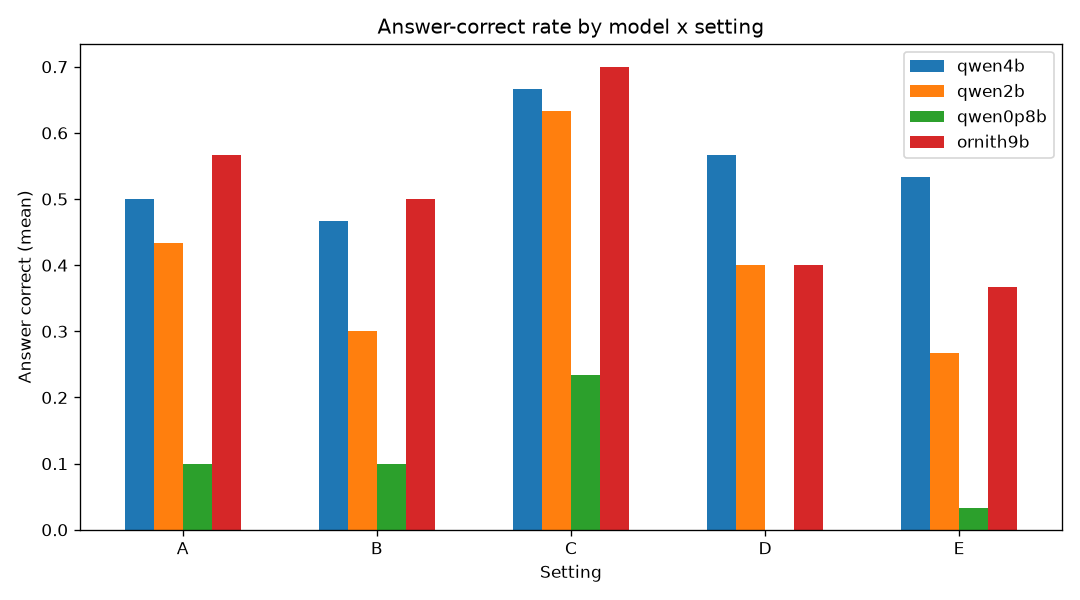
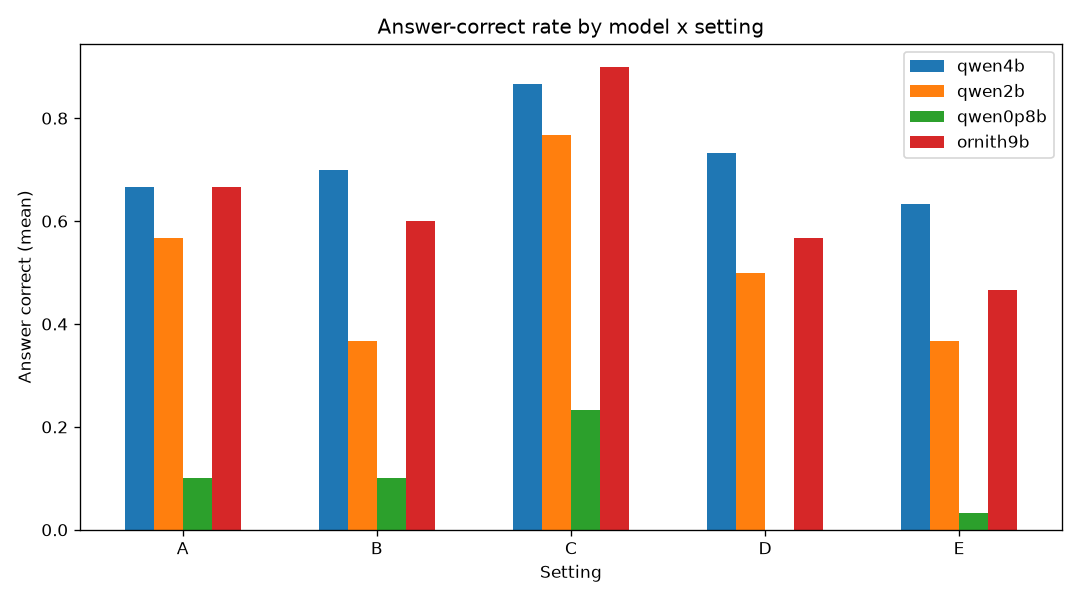
fix(reports): recompute stored answer_correct with the fixed cover_match, refresh the experiment matrix report
answer_correct is scored once at export time and stored in each
teacher_guidance_episodes.jsonl; both the viewer and the report read that stored
value directly rather than recomputing it live, so the cover_match false-positive
fix didn't retroactively change anything already on disk.

Adds scripts/recompute_answer_correct.py, which re-scores every stored episode's
final_answer against its gold_answer with the current cover_match and rewrites the
file in place only where the value actually changes (in-place across the 650
stored episode files: 62 records flipped from False to True, 0 regressions).
Re-ran scripts/build_experiment_matrix_report.py to refresh REPORT.md and
plots/answer_correct.png from the corrected data.

diff --git a/scripts/recompute_answer_correct.py b/scripts/recompute_answer_correct.py
@@ -1,0 +1,109 @@
+"""
+Recompute `final_metrics.answer_correct` in every stored Teacher Guidance episode
+file, using the current `cover_match` (agentsim/teacher_guidance/metrics.py).
+
+Why this is needed: `answer_correct` is computed once at export time and stored in
+`teacher_guidance_episodes.jsonl`; the viewer and report both read that stored value
+directly rather than recomputing it live (see
+`agentsim/teacher_guidance/viewer/data_access.py:_answer_correct`, which only
+recomputes when the field is *missing*). A `cover_match` bug fix therefore doesn't
+retroactively change anything already on disk -- this script re-scores every stored
+episode in place so the explorer and any report built from the data reflect the fix.
+
+Usage:
+    python scripts/recompute_answer_correct.py [--root data/simulation_output] [--dry-run]
+"""
+
+from __future__ import annotations
+
+import argparse
+import json
+import os
+import sys
+from pathlib import Path
+from typing import Any, Dict, List, Tuple
+
+sys.path.insert(0, str(Path(__file__).resolve().parent.parent))
+
+from agentsim.teacher_guidance.metrics import cover_match  # noqa: E402
+
+EPISODE_FILENAME = "teacher_guidance_episodes.jsonl"
+
+
+def recompute_episode(episode: Dict[str, Any]) -> Tuple[Dict[str, Any], bool, bool]:
+    """Return (episode, changed, regressed). `regressed` is True iff a previously
+    True answer_correct flipped to False -- cover_match's fix is purely additive
+    (it only accepts cases the old strict check rejected), so this should never
+    happen; if it does, treat it as a bug to investigate rather than apply silently.
+    """
+    fm = episode.get("final_metrics")
+    if not isinstance(fm, dict) or "answer_correct" not in fm:
+        return episode, False, False
+
+    old_value = bool(fm["answer_correct"])
+    new_value = cover_match(episode.get("final_answer", ""), episode.get("gold_answer", ""))
+    if new_value == old_value:
+        return episode, False, False
+
+    regressed = old_value and not new_value
+    fm["answer_correct"] = new_value
+    return episode, True, regressed
+
+
+def process_file(path: Path, dry_run: bool = False) -> Tuple[int, int, int]:
+    """Return (num_records, num_changed, num_regressed) for one episode file."""
+    records: List[Dict[str, Any]] = []
+    num_changed = 0
+    num_regressed = 0
+    with open(path, encoding="utf-8") as f:
+        for line in f:
+            line = line.strip()
+            if not line:
+                continue
+            episode, changed, regressed = recompute_episode(json.loads(line))
+            records.append(episode)
+            if changed:
+                num_changed += 1
+            if regressed:
+                num_regressed += 1
+
+    if num_changed and not dry_run:
+        tmp_path = path.with_suffix(path.suffix + ".tmp")
+        with open(tmp_path, "w", encoding="utf-8") as f:
+            for episode in records:
+                f.write(json.dumps(episode) + "\n")
+        os.replace(tmp_path, path)
+
+    return len(records), num_changed, num_regressed
+
+
+def main() -> None:
+    parser = argparse.ArgumentParser(description=__doc__)
+    parser.add_argument("--root", default="data/simulation_output")
+    parser.add_argument("--dry-run", action="store_true", help="Report what would change, write nothing")
+    args = parser.parse_args()
+
+    root = Path(args.root)
+    total_files = total_records = total_changed = total_regressed = 0
+    regressed_files = []
+
+    for path in sorted(root.rglob(EPISODE_FILENAME)):
+        num_records, num_changed, num_regressed = process_file(path, dry_run=args.dry_run)
+        total_files += 1
+        total_records += num_records
+        total_changed += num_changed
+        total_regressed += num_regressed
+        if num_regressed:
+            regressed_files.append(str(path))
+
+    verb = "Would update" if args.dry_run else "Updated"
+    print(f"Scanned {total_files} episode file(s), {total_records} episode record(s).")
+    print(f"{verb} {total_changed} record(s) (answer_correct flipped, almost always False -> True).")
+    if total_regressed:
+        print(f"WARNING: {total_regressed} record(s) flipped True -> False in: {regressed_files}")
+    else:
+        print("No regressions (no True -> False flips), as expected.")
+
+
+if __name__ == "__main__":
+    main()

diff --git a/tests/test_recompute_answer_correct.py b/tests/test_recompute_answer_correct.py
@@ -1,0 +1,78 @@
+"""Tests for the answer_correct migration script's pure logic."""
+
+import json
+
+from scripts.recompute_answer_correct import recompute_episode, process_file
+
+
+def test_recompute_episode_flips_stale_false_positive():
+    episode = {
+        "final_answer": "Kelly Osbourne, a British singer-songwriter, hosted the show.",
+        "gold_answer": "Kelly Lee Osbourne",
+        "final_metrics": {"answer_correct": False, "exact_match": False, "f1": 0.25},
+    }
+    new_episode, changed, regressed = recompute_episode(episode)
+    assert changed is True
+    assert regressed is False
+    assert new_episode["final_metrics"]["answer_correct"] is True
+
+
+def test_recompute_episode_leaves_already_correct_untouched():
+    episode = {
+        "final_answer": "Delhi",
+        "gold_answer": "Delhi",
+        "final_metrics": {"answer_correct": True, "exact_match": True, "f1": 1.0},
+    }
+    _, changed, regressed = recompute_episode(episode)
+    assert changed is False
+    assert regressed is False
+
+
+def test_recompute_episode_leaves_genuinely_wrong_untouched():
+    episode = {
+        "final_answer": "Mumbai",
+        "gold_answer": "Delhi",
+        "final_metrics": {"answer_correct": False, "exact_match": False, "f1": 0.0},
+    }
+    _, changed, regressed = recompute_episode(episode)
+    assert changed is False
+    assert regressed is False
+
+
+def test_recompute_episode_skips_records_missing_final_metrics():
+    episode = {"final_answer": "x", "gold_answer": "y"}
+    new_episode, changed, regressed = recompute_episode(episode)
+    assert changed is False
+    assert regressed is False
+    assert new_episode == episode
+
+
+def test_process_file_rewrites_only_changed_records(tmp_path):
+    path = tmp_path / "teacher_guidance_episodes.jsonl"
+    rows = [
+        {"final_answer": "Kelly Osbourne, a British singer-songwriter, hosted the show.",
+         "gold_answer": "Kelly Lee Osbourne", "final_metrics": {"answer_correct": False}},
+        {"final_answer": "Mumbai", "gold_answer": "Delhi",
+         "final_metrics": {"answer_correct": False}},
+    ]
+    path.write_text("\n".join(json.dumps(r) for r in rows) + "\n", encoding="utf-8")
+
+    num_records, num_changed, num_regressed = process_file(path)
+    assert (num_records, num_changed, num_regressed) == (2, 1, 0)
+
+    updated = [json.loads(line) for line in path.read_text(encoding="utf-8").splitlines()]
+    assert updated[0]["final_metrics"]["answer_correct"] is True
+    assert updated[1]["final_metrics"]["answer_correct"] is False
+
+
+def test_process_file_dry_run_does_not_write(tmp_path):
+    path = tmp_path / "teacher_guidance_episodes.jsonl"
+    row = {"final_answer": "Kelly Osbourne, a British singer-songwriter, hosted the show.",
+           "gold_answer": "Kelly Lee Osbourne", "final_metrics": {"answer_correct": False}}
+    path.write_text(json.dumps(row) + "\n", encoding="utf-8")
+
+    num_records, num_changed, num_regressed = process_file(path, dry_run=True)
+    assert (num_records, num_changed, num_regressed) == (1, 1, 0)
+
+    unchanged = json.loads(path.read_text(encoding="utf-8"))
+    assert unchanged["final_metrics"]["answer_correct"] is False

diff --git a/reports/experiment_matrix_2026-07-03/REPORT.md b/reports/experiment_matrix_2026-07-03/REPORT.md
@@ -21,26 +21,26 @@
 
 | Model | Setting | Episodes | Answer correct | EM | F1 | Doc recall | Avg steps | Median steps | Teacher calls | Tokens | Cost (USD) | Wall (s) |
 |---|---|---|---|---|---|---|---|---|---|---|---|---|
-| qwen4b | A | 30 | 0.5 | 0 | 0.1586 | 0.9 | 4.3 | 5 | 163 | 302689 | 0.5296 | 2814 |
-| qwen4b | B | 30 | 0.4667 | 0 | 0.1466 | 0.9167 | 4.2 | 5 | 163 | 299467 | 0.5214 | 2735 |
-| qwen4b | C | 30 | 0.6667 | 0.0333 | 0.2057 | 0.9333 | 7.267 | 5 | 261 | 570333 | 1.035 | 5353 |
-| qwen4b | D | 30 | 0.5667 | 0.1333 | 0.2824 | 0.85 | 4.367 | 5 | 164 | 309510 | 0.5607 | 2713 |
-| qwen4b | E | 30 | 0.5333 | 0 | 0.1577 | 0.9 | 3.8 | 4 | 0 | 0 | 0 | 457.7 |
-| qwen2b | A | 30 | 0.4333 | 0 | 0.1035 | 0.9 | 4.767 | 5 | 181 | 378663 | 0.6442 | 2928 |
-| qwen2b | B | 30 | 0.3 | 0 | 0.1027 | 0.8333 | 4.833 | 5 | 182 | 372003 | 0.6393 | 3330 |
-| qwen2b | C | 30 | 0.6333 | 0.1 | 0.2856 | 0.9833 | 12.4 | 11 | 425 | 996853 | 1.67 | 6595 |
-| qwen2b | D | 30 | 0.4 | 0.1 | 0.2438 | 0.9 | 4.6 | 5 | 177 | 347699 | 0.6463 | 2508 |
-| qwen2b | E | 30 | 0.2667 | 0 | 0.0722 | 0.8667 | 4.633 | 5 | 0 | 0 | 0 | 495.3 |
+| qwen4b | A | 30 | 0.6667 | 0 | 0.1586 | 0.9 | 4.3 | 5 | 163 | 302689 | 0.5296 | 2814 |
+| qwen4b | B | 30 | 0.7 | 0 | 0.1466 | 0.9167 | 4.2 | 5 | 163 | 299467 | 0.5214 | 2735 |
+| qwen4b | C | 30 | 0.8667 | 0.0333 | 0.2057 | 0.9333 | 7.267 | 5 | 261 | 570333 | 1.035 | 5353 |
+| qwen4b | D | 30 | 0.7333 | 0.1333 | 0.2824 | 0.85 | 4.367 | 5 | 164 | 309510 | 0.5607 | 2713 |
+| qwen4b | E | 30 | 0.6333 | 0 | 0.1577 | 0.9 | 3.8 | 4 | 0 | 0 | 0 | 457.7 |
+| qwen2b | A | 30 | 0.5667 | 0 | 0.1035 | 0.9 | 4.767 | 5 | 181 | 378663 | 0.6442 | 2928 |
+| qwen2b | B | 30 | 0.3667 | 0 | 0.1027 | 0.8333 | 4.833 | 5 | 182 | 372003 | 0.6393 | 3330 |
+| qwen2b | C | 30 | 0.7667 | 0.1 | 0.2856 | 0.9833 | 12.4 | 11 | 425 | 996853 | 1.67 | 6595 |
+| qwen2b | D | 30 | 0.5 | 0.1 | 0.2438 | 0.9 | 4.6 | 5 | 177 | 347699 | 0.6463 | 2508 |
+| qwen2b | E | 30 | 0.3667 | 0 | 0.0722 | 0.8667 | 4.633 | 5 | 0 | 0 | 0 | 495.3 |
 | qwen0p8b | A | 30 | 0.1 | 0 | 0.0142 | 0.7833 | 4.933 | 5 | 187 | 370036 | 0.6838 | 2876 |
 | qwen0p8b | B | 30 | 0.1 | 0 | 0.0188 | 0.8333 | 5 | 5 | 188 | 367128 | 0.6471 | 2601 |
 | qwen0p8b | C | 30 | 0.2333 | 0 | 0.0684 | 0.9167 | 18.77 | 20 | 622 | 1464402 | 2.431 | 7648 |
 | qwen0p8b | D | 30 | 0 | 0 | 0 | 0.8667 | 5 | 5 | 184 | 364184 | 0.6533 | 2520 |
 | qwen0p8b | E | 30 | 0.0333 | 0 | 0.0121 | 0.7667 | 5 | 5 | 0 | 0 | 0 | 445.3 |
-| ornith9b | A | 30 | 0.5667 | 0.0333 | 0.1432 | 0.9 | 4.667 | 5 | 177 | 331067 | 0.5626 | 2551 |
-| ornith9b | B | 30 | 0.5 | 0.0333 | 0.1504 | 0.9 | 4.733 | 5 | 175 | 322506 | 0.5755 | 2643 |
-| ornith9b | C | 30 | 0.7 | 0.0333 | 0.1754 | 0.9833 | 7.767 | 5.5 | 274 | 565448 | 0.9412 | 4302 |
-| ornith9b | D | 30 | 0.4 | 0 | 0.1291 | 0.8833 | 4.767 | 5 | 179 | 336171 | 0.6111 | 2965 |
-| ornith9b | E | 30 | 0.3667 | 0 | 0.088 | 0.8667 | 4.7 | 5 | 0 | 0 | 0 | 538 |
+| ornith9b | A | 30 | 0.6667 | 0.0333 | 0.1432 | 0.9 | 4.667 | 5 | 177 | 331067 | 0.5626 | 2551 |
+| ornith9b | B | 30 | 0.6 | 0.0333 | 0.1504 | 0.9 | 4.733 | 5 | 175 | 322506 | 0.5755 | 2643 |
+| ornith9b | C | 30 | 0.9 | 0.0333 | 0.1754 | 0.9833 | 7.767 | 5.5 | 274 | 565448 | 0.9412 | 4302 |
+| ornith9b | D | 30 | 0.5667 | 0 | 0.1291 | 0.8833 | 4.767 | 5 | 179 | 336171 | 0.6111 | 2965 |
+| ornith9b | E | 30 | 0.4667 | 0 | 0.088 | 0.8667 | 4.7 | 5 | 0 | 0 | 0 | 538 |
 
 ## Setting C: steps-taken distribution (hidden 20-step cap)
 
